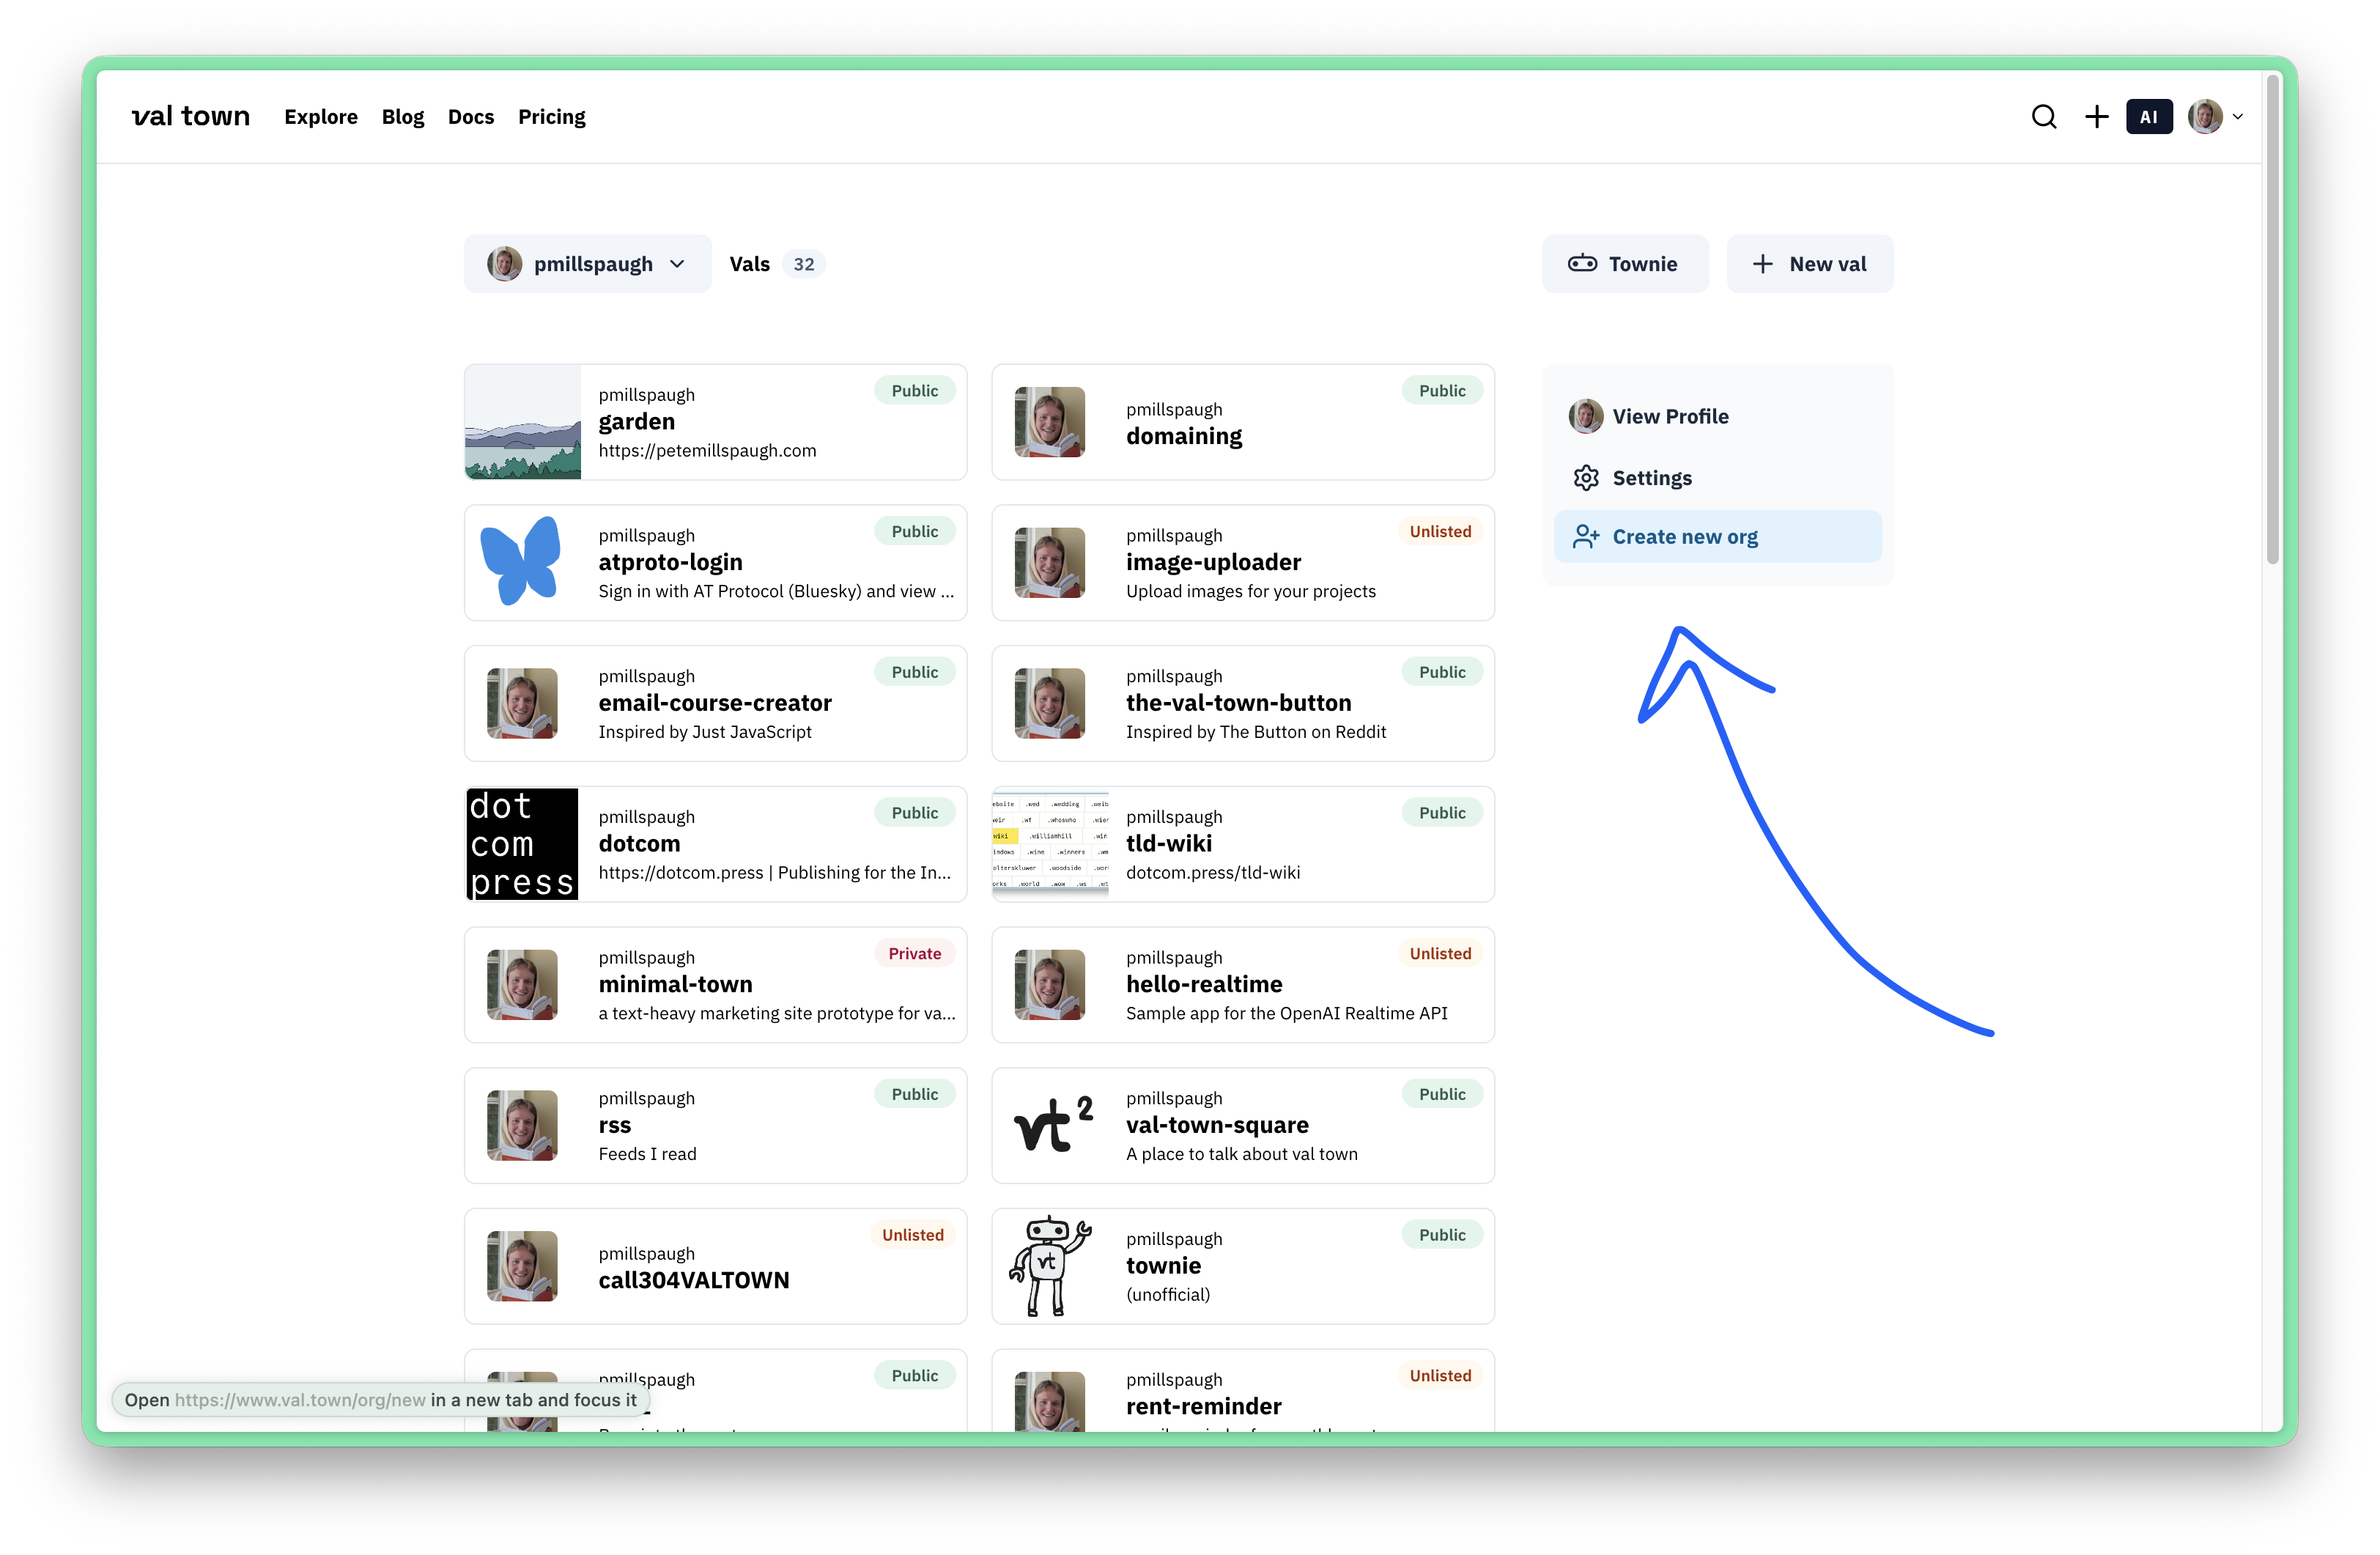
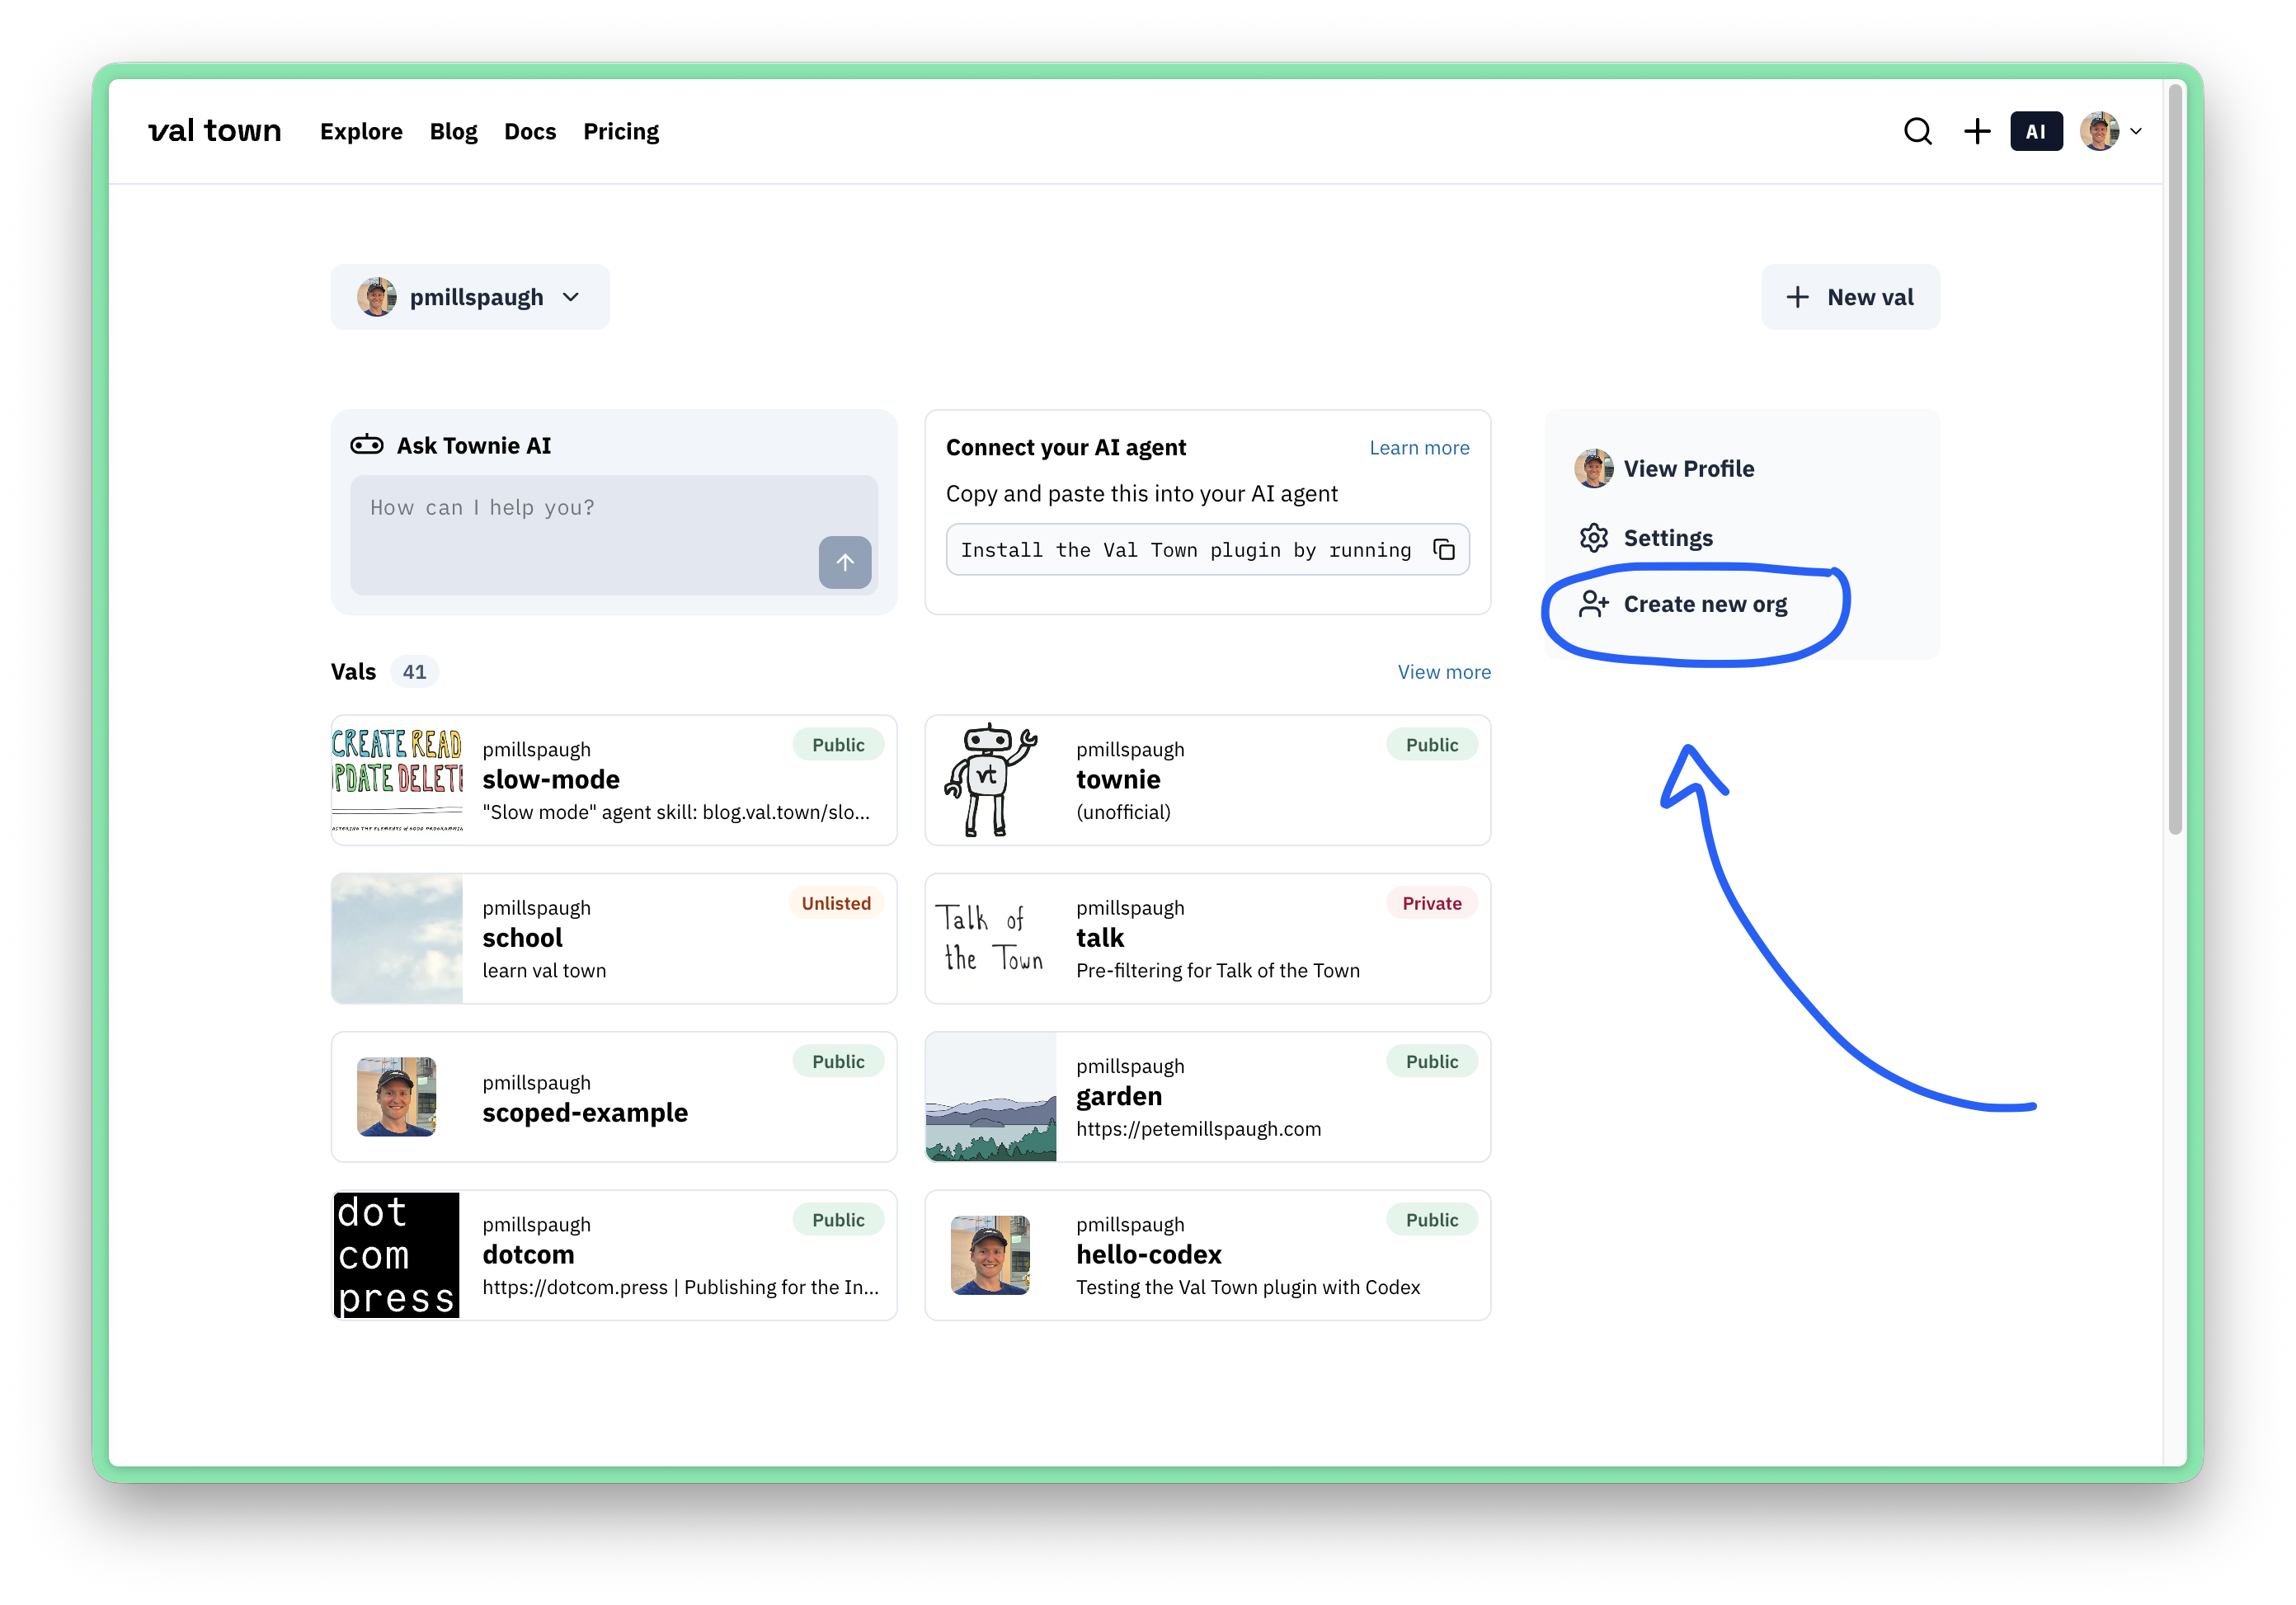
Document transferring vals between orgs (#514)

Pull request: Document transferring vals between orgs
Closes https://github.com/val-town/val.town/issues/13840
<!-- devin-review-badge-begin -->

---

<a href="https://app.devin.ai/review/val-town/val-town-docs/pull/514" target="_blank">
  <picture>
    <source media="(prefers-color-scheme: dark)" srcset="https://static.devin.ai/assets/gh-open-in-devin-review-dark.svg?v=1">
    <img src="https://static.devin.ai/assets/gh-open-in-devin-review-light.svg?v=1" alt="Open in Devin Review">
  </picture>
</a>
<!-- devin-review-badge-end -->

diff --git a/src/content/docs/vals/organizations.md b/src/content/docs/vals/organizations.md
@@ -1,10 +1,29 @@
 ---
 title: Organizations
 description: Collaborate with your team
+lastUpdated: 2026-07-01
 ---
 
-Organizations are how you collaborate with teammates on vals. Creating an org is free, but our [Teams](https://www.val.town/pricing) plan unlocks features, like [environment groups](/reference/environment-groups), higher limits, and hands-on support.
+Organizations are how you collaborate with teammates on vals. Creating an org is free, but our [Business](https://www.val.town/pricing) plan unlocks features, like [environment groups](/reference/environment-groups), higher limits, and hands-on support.
 
 Create a new org from your Val Town [dashboard](https://val.town/dashboard):
 
 ![organizations](./organizations.png)
+
+## Transferring vals between orgs
+
+When you transfer a val to a different org, the following features transfer automatically:
+
+- Scoped [environment variables](/reference/environment-variables)
+- Scoped [SQLite](/reference/std/sqlite/)
+- Scoped [blob storage](/reference/std/blob)
+- `*.val.run` [HTTP endpoints](/vals/http/)
+
+### What does NOT transfer automatically
+
+The following require manual updates (or ask your agent/Townie):
+
+- val.town URLs, i.e. `https://www.val.town/x/<org>/<val>`
+- esm.town URLs, e.g. used by other vals importing code from the transferred val
+- Global env vars (deprecated): found in [account settings](https://www.val.town/settings/environment-variables); new ones can't be created
+- [Environment groups](/reference/environment-groups): scoped to the organization, do not transfer